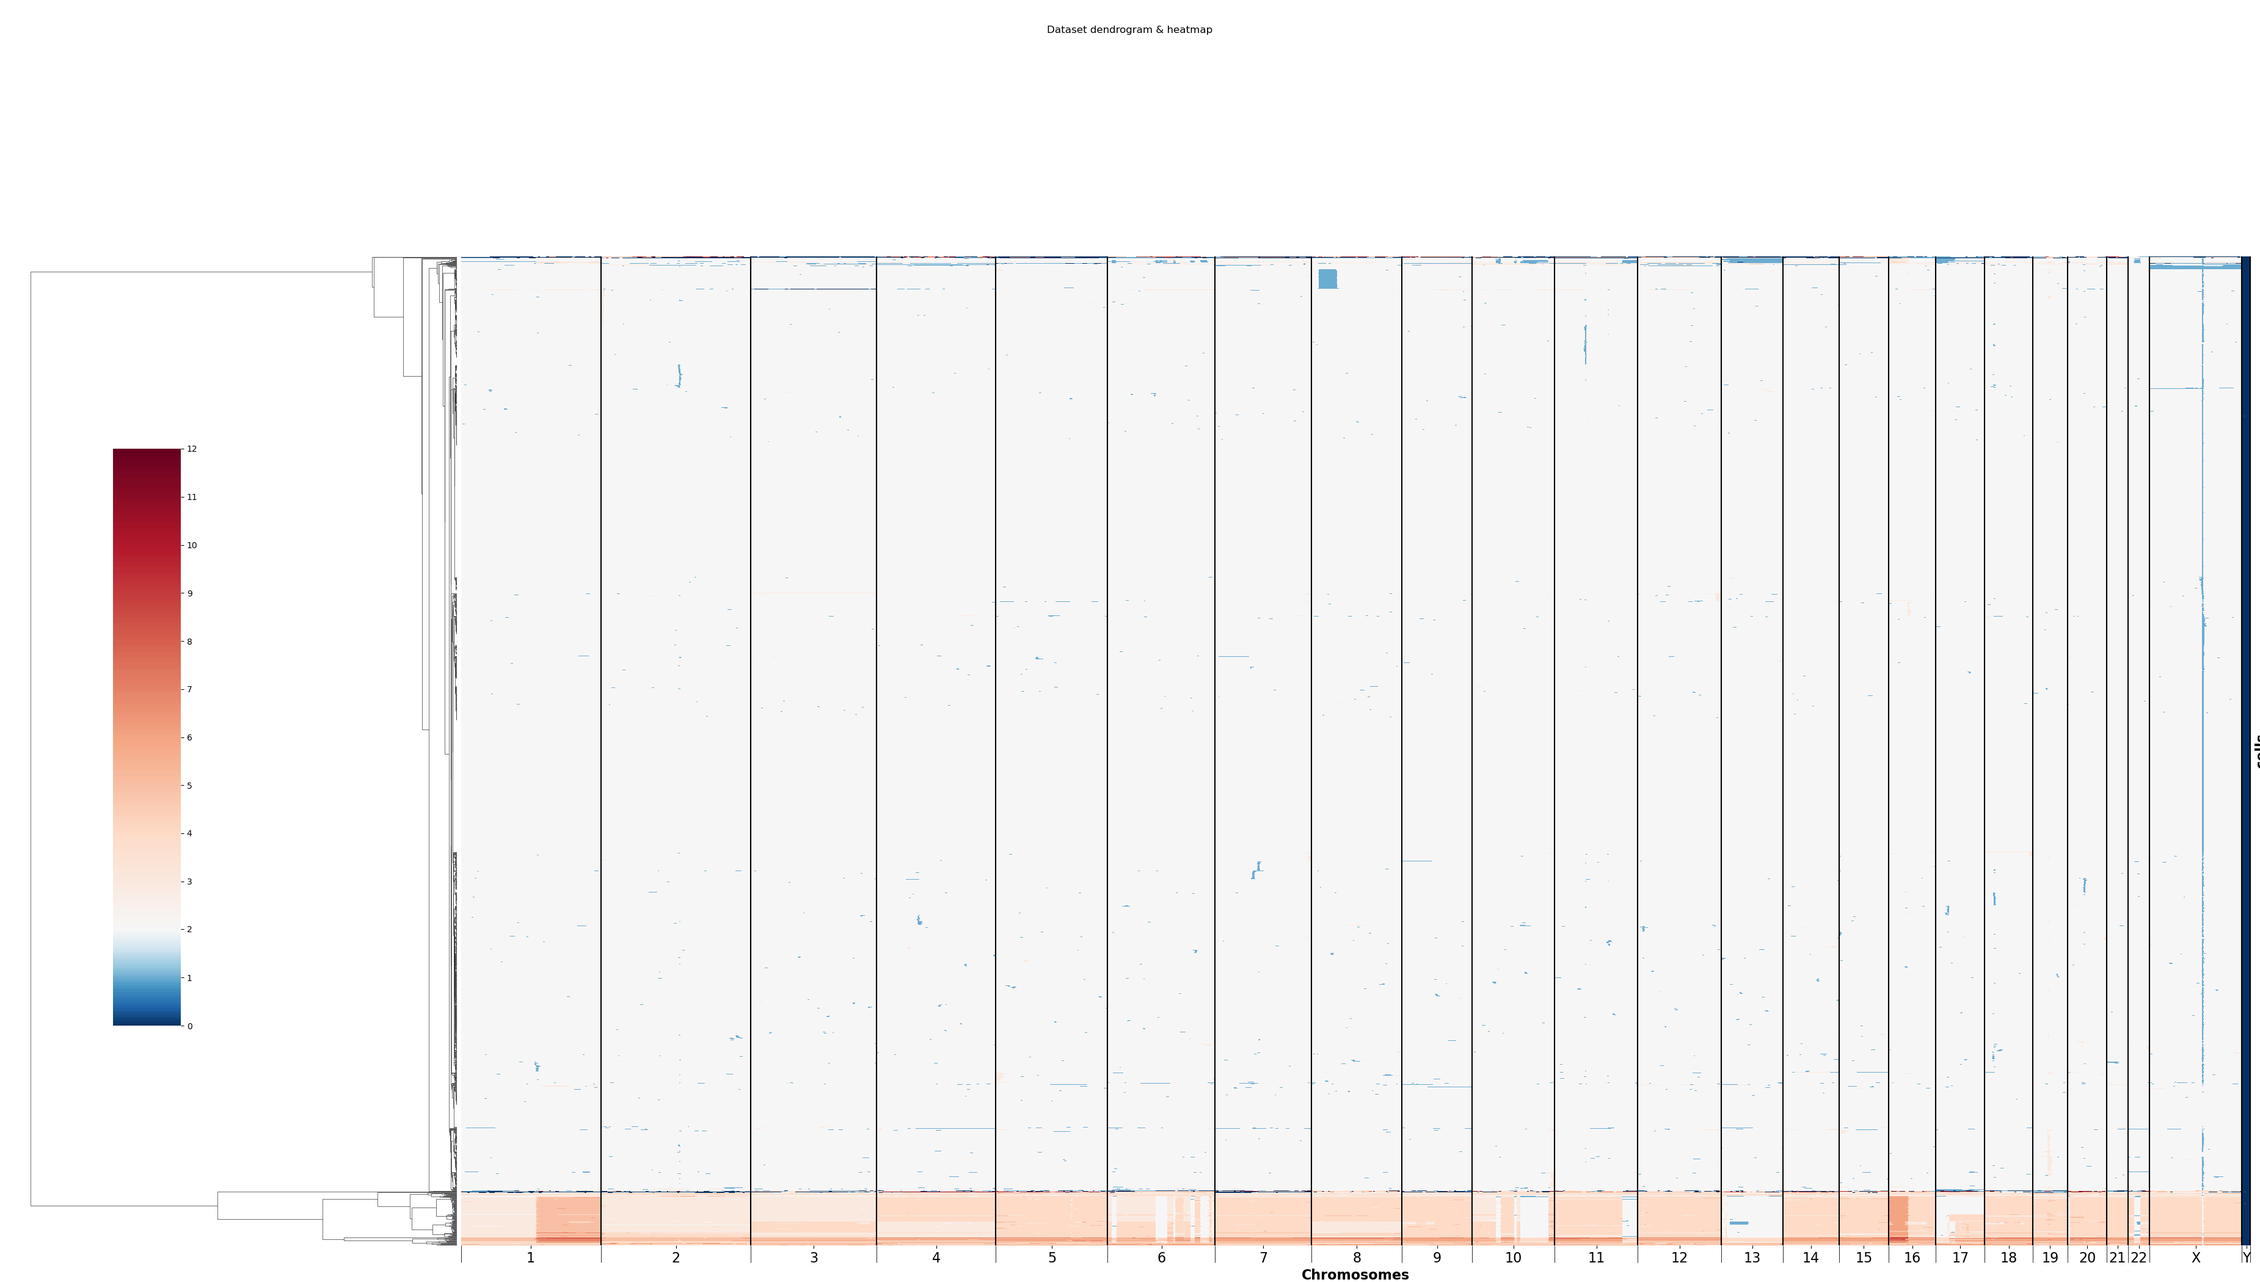
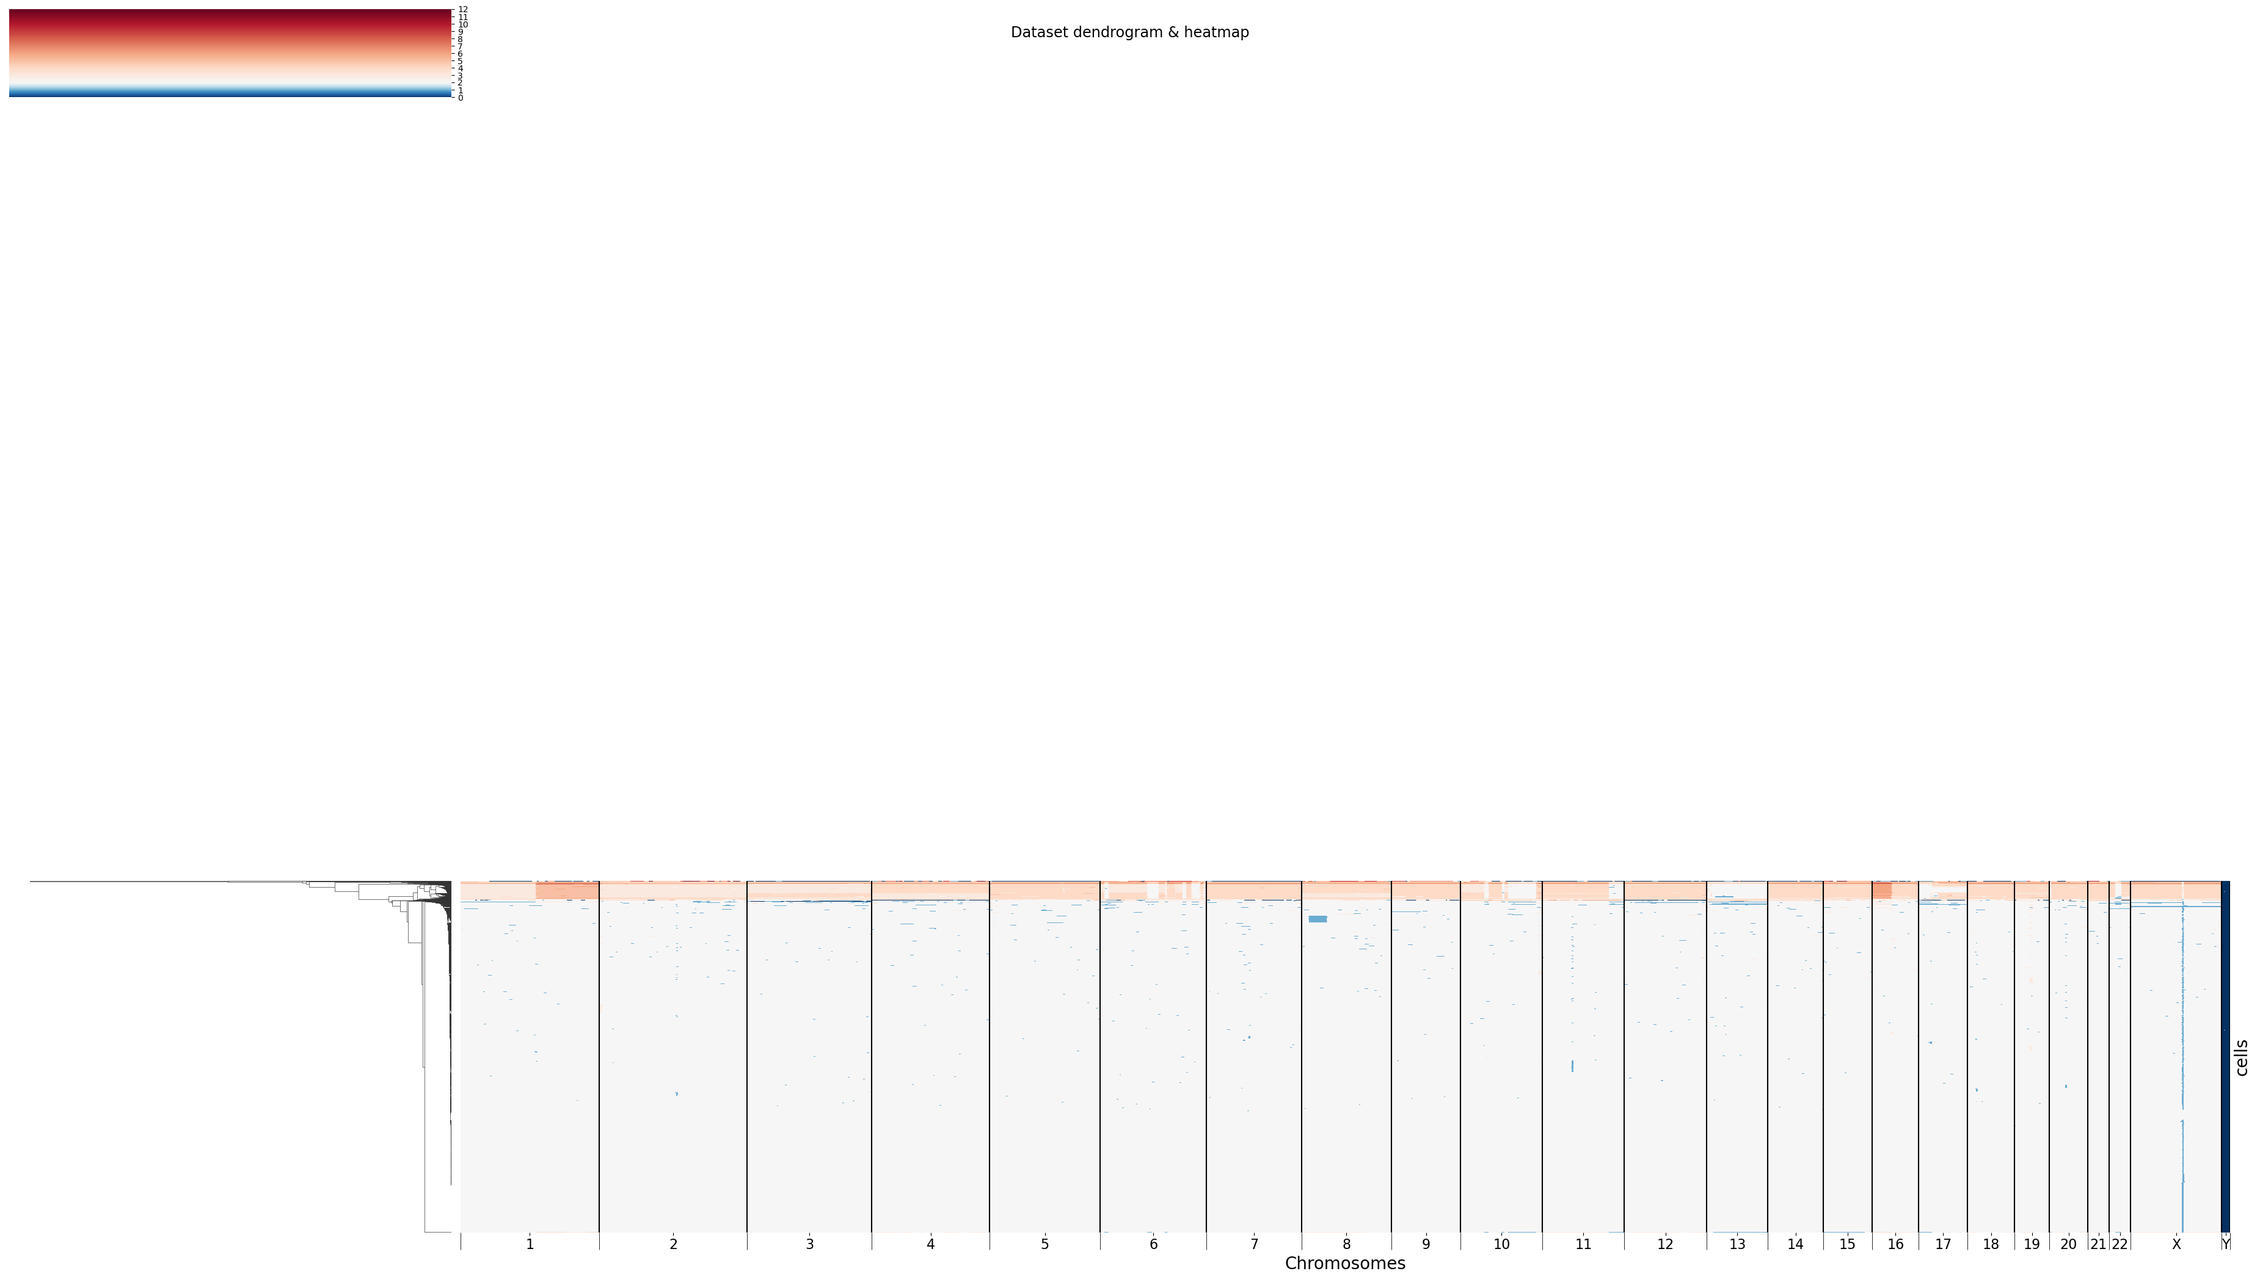
fixes to manage clustering visualization

diff --git a/phylics/drawer.py b/phylics/drawer.py
@@ -36,11 +36,107 @@ import matplotlib.ticker as ticker
 import matplotlib.pyplot as plt
 import matplotlib.colors as colors
 import matplotlib.transforms as transforms
+from matplotlib.patches import Patch
 from typing import Tuple, Union, List, Iterable, Collection, Sequence, Optional
 from .types import CnvData
 from ._compat import Literal
 from . import logging as logg
 from .plotting._utils import make_projection_available, ColorLike, _Dimensions
+
+def clustermap2(data, boundaries, labels:Union[pd.Series, pd.DataFrame]=None,  row_cluster:bool=False, vmin:int = 0, vmax:int = 12, vcenter:int=2, 
+            linkage:Union[np.ndarray, None]=None, outpath=None, legend: bool=False,  title: str=None, 
+                 figsize:Tuple[int, int]=(37, 21)):
+    warnings.filterwarnings("ignore")
+    sns.set(font_scale=2)
+    
+    if figsize == None:
+        figsize = (37, 21)
+    divnorm = colors.TwoSlopeNorm(vmin=vmin, vcenter=vcenter, vmax=vmax)
+    cbar_kws={"ticks":np.arange(vmin,vmax+1,1)}
+
+    cluster_colors = None
+    cluster_lut = {}
+    if labels is not None:
+        if isinstance(labels, pd.Series):
+            color_palette = sns.color_palette("hls", len(np.unique(labels)))
+            cluster_lut = dict(zip(np.unique(labels), color_palette))
+            cluster_colors=pd.Series(labels, index=data.index, name=labels.name).map(cluster_lut)
+        elif isinstance(labels, pd.DataFrame):
+            cluster_colors = pd.DataFrame(columns=labels.columns)
+            for c in labels.columns:
+                color_palette = sns.color_palette("hls", len(np.unique(labels[c])))
+                cluster_lut = dict(zip(np.unique(labels[c]), color_palette))
+                cluster_colors[c] = pd.Series(labels[c], index=data.index, name=c).map(cluster_lut)
+                
+    h = sns.clustermap(data, row_cluster=row_cluster, col_cluster=False, row_linkage=linkage, yticklabels = False,  
+                    row_colors=cluster_colors, cmap='RdBu_r', vmin=vmin, vmax=vmax,norm=divnorm, cbar_kws=cbar_kws, figsize=figsize)   
+    if legend == True: 
+        # Draw the legend bar for the classes                 
+        # label in np.unique(labels):
+        #    h.ax_row_dendrogram.bar(0, 0, color=cluster_lut[label],
+        #                label=label, linewidth=0)
+        #h.ax_row_dendrogram.legend(loc='best', bbox_to_anchor=(0.05, .2, .03, .45), ncol=len(np.unique(labels)), 
+                #title_fontsize='x-large', bbox_transform=plt.gcf().transFigure)
+        #plt.figlegend(title=labels.name, loc='center', bbox_to_anchor=(0.5,0.9))      
+        handles = [Patch(facecolor=cluster_lut[l]) for l in cluster_lut]
+        h.ax_heatmap.legend(handles, cluster_lut, title=labels.name, bbox_to_anchor=(0.5, 0.9), ncol=len(np.unique(labels)), bbox_transform=plt.gcf().transFigure, loc='upper right')
+    
+    h.fig.tight_layout()
+    h.fig.subplots_adjust(right=0.9, left=0.0)
+    h.ax_cbar.set_position((0.95, .2, .03, .4))
+
+    ax = h.ax_heatmap
+
+    chr_limits = []
+    for k,v in boundaries.groupby('CHR', sort=False)['END'].max().items():
+        chr_limits.append(boundaries.index[(boundaries['CHR'] == k) & (boundaries['END'] == v)].tolist()[0])
+    chr_boundaries = np.append(0, chr_limits)
+    chr_list = boundaries['CHR'].unique().tolist()
+    chrN_list = []
+
+    for x in chr_list:
+        x = x[3:] #remove 'chr' for readability
+        chrN_list.append(x)
+
+    #compute the position where chromosome labels will be placed on the plots
+    start = 0
+    pos_list = []
+    for end in chr_limits:
+        pos_list.append((start+end)/2)
+        start = end+1
+
+    #place vertical lines to identify chromosomes
+    for pos in chr_limits:
+        ax.axvline(x=pos, color='black')
+
+    #place chromosome ticks at the right position
+    ax.xaxis.set_major_locator(ticker.FixedLocator((pos_list)))
+    ax.xaxis.set_major_formatter(ticker.FixedFormatter((chrN_list)))
+    ax.tick_params(axis='x', rotation=0, labelsize=16)
+    
+    ax.xaxis.set_minor_locator(ticker.FixedLocator(chr_boundaries))
+    ax.tick_params(axis='x', length=20, which='minor')
+
+    ax.set_xlabel("Chromosomes",)
+    ax.set_ylabel("cells")
+
+    #hm = h.ax_heatmap.get_position()
+    #plt.setp(h.ax_heatmap.xaxis.get_majorticklabels(), fontsize=6)
+    #h.ax_heatmap.set_position([hm.x0, hm.y0, hm.width*0.25, hm.height])
+    #row = h.ax_row_dendrogram.get_position()
+    #h.ax_row_dendrogram.set_position([row.x0, row.y0, row.width*0.25, row.height*0.5])
+
+
+    #plt.gcf().set_size_inches(37, 21)
+    if title is not None:
+        plt.gcf().suptitle(title, fontsize=40)
+
+    if outpath != None:
+        plt.savefig(outpath)
+    else:
+        plt.show()
+    plt.clf()
+    return h
 
 def clustermap(data, boundaries, labels:Union[np.array, None]=None, outpath=None, title: str=None, legend: bool=False, linkage:Union[np.ndarray, None]=None,
                  vmin:int = 0, vmax:int = 12, vcenter:int=2, figsize:Tuple[int, int]=(37, 21), fontsize:int=16, row_cluster:bool=False): 
@@ -329,7 +425,7 @@ def jackstraw(explained_variance_ratio: np.array, mean_expl_var_ratio_perm: np.a
 
 
 _DRAWING_FUNCTIONS_ = {
-    'heatmap' : clustermap,
+    'heatmap' : clustermap2,
     'dist': dist,
     'scatter':scatter,
     'variable_features':highly_variable_features,

diff --git a/phylics/types/sample.py b/phylics/types/sample.py
@@ -130,6 +130,9 @@ class Sample:
 
     def count(self):
         return self.cnv_data.n_obs
+
+    def sort_rows(self, by:Union[list, np.array]):
+        return Sample(self.cnv_data.sort_rows(by), self.name)
     
     def drop_cells(self, cells:list, inplace:bool=False):
         cnv_data = self.cnv_data.drop_obs(select=cells, inplace=inplace)
@@ -254,14 +257,14 @@ class Sample:
     def cluster(self, method:str, embeddings:Optional[Union[str, None]]=None, **kwargs):
         res = cluster(self.cnv_data, method, embeddings, **kwargs)
         self.cnv_data.uns['cluster_model'] = res
-        self.cnv_data.obs['label'] = res.labels_
+        self.cnv_data.obs['cluster'] = res.labels_
         return res
 
     def get_clusterer(self):
         return self.cnv_data.uns['cluster_model']
     
     def get_cluster_labels(self):
-        return self.cnv_data.obs['label']
+        return self.cnv_data.obs['cluster']
 
     #Multi-sample analysis
     #def co_cluster(self, samples:list, method:str, embeddings:Optional[Union[str, None]]=None, **kwargs):
@@ -405,23 +408,24 @@ class Sample:
             logg.error("{} object has no attribute 'umap'".format(self.cnv_data.uns))
 
     def plot_clusters(self, plot:str="scatter", outpath:str=None, figsize:Tuple[int, int]=None, **kwargs):
-        if 'label' in self.cnv_data.obs.columns:
+        if 'cluster' in self.cnv_data.obs.columns:
+            s = self.sort_rows(by="cluster")
             if plot == "scatter":
-                if 'umap' in self.cnv_data.uns:
-                    projection = self.get_umap('X')
+                if 'umap' in s.cnv_data.uns:
+                    projection = s.get_umap('X')
                 else:
-                    projection = umap(self.cnv_data)
+                    projection = umap(s.cnv_data)
                 Drawer.draw('scatter', data=projection, title = 'Cluster projection', x_label='X', y_label='Y', outpath=outpath,  
-                    figsize = figsize, labels=self.cnv_data.obs['label'].values, legend=True, **kwargs)
+                    figsize = figsize, labels=s.cnv_data.obs['cluster'], legend=True, **kwargs)
             elif plot == "heatmap":
-                Drawer.draw('heatmap', data=self.get_cnv_dataframe(), boundaries=self.get_boundaries(),  title = 'Cluster heatmap', outpath=outpath,  
-                    labels=self.cnv_data.obs['label'].values, legend=True, **kwargs)
+                Drawer.draw('heatmap', data=s.get_cnv_dataframe(), boundaries=s.get_boundaries(),  title = 'Cluster heatmap', outpath=outpath,  
+                    labels=s.cnv_data.obs['cluster'], figsize=figsize, legend=False, **kwargs)
         else:
-            logg.error("{} object has no column 'label'".format(self.cnv_data.feat))
+            logg.error("{} object has no column 'cluster'".format(self.cnv_data.feat))
 
     def plot_dendrogram(self, outpath:str=None, clusters:bool=False, figsize:Tuple[int, int]=None, **kwargs):
         if clusters == True: 
-            if 'label' in self.cnv_data.obs.columns:
+            if 'cluster' in self.cnv_data.obs.columns:
                 model =  self.get_clusterer()
                 if hasattr(model, 'children_'):
                     #agglomerative clustering has been computed
@@ -438,15 +442,15 @@ class Sample:
 
                     linkage_matrix = np.column_stack([model.children_, model.distances_,
                                       counts]).astype(float)
-                    Drawer.draw('heatmap', data=self.get_cnv_dataframe(), boundaries=self.get_boundaries(), linkage=linkage_matrix,  title = 'Cluster dendrogram & heatmap', outpath=outpath,  
-                        labels=self.cnv_data.obs['label'].values, legend=True, **kwargs)
+                    Drawer.draw('heatmap', data=self.get_cnv_dataframe(), row_cluster=True, boundaries=self.get_boundaries(), linkage=linkage_matrix,  title = 'Cluster dendrogram & heatmap', outpath=outpath,  
+                        labels=self.cnv_data.obs['cluster'], legend=True, **kwargs)
                 else:
                     logg.error("Cluster model has no attribute 'children'. Consider executing agglomerative clustering.")
             else:
-                logg.error("{} object has no column 'label'".format(self.cnv_data.feat))
+                logg.error("{} object has no column 'cluster'".format(self.cnv_data.feat))
         else:
-            Drawer.draw('heatmap', data=self.get_cnv_dataframe(), boundaries=self.get_boundaries(),  title = 'Dataset dendrogram & heatmap', outpath=outpath,  
-                        legend=True, **kwargs)
+            Drawer.draw('heatmap', data=self.get_cnv_dataframe(), row_cluster=True, boundaries=self.get_boundaries(),  title = 'Dataset dendrogram & heatmap', outpath=outpath,  
+                         **kwargs)
     
 
 

diff --git a/phylics/types/cnvdata.py b/phylics/types/cnvdata.py
@@ -25,6 +25,7 @@ import numpy as np
 import pandas as pd
 from copy import copy
 from typing import Union, List, Tuple, Optional, Mapping, Iterable, Any, Sequence
+from .. import logging as logg
 
 from .views import (
     ArrayView,
@@ -41,8 +42,8 @@ __all__ = ["CnvData"]
 
 class CnvData:
     def __init__(self, X:Union[np.ndarray, pd.DataFrame, "CnvData"], 
-            obs_names:Optional[Union[Sequence[Union['str','int']], str]] = 'auto', 
-            feat_names:Optional[Union[Sequence[Union['str','int']], str]] = 'auto', 
+            obs_names:Optional[Union[Sequence[Union['str','int']], np.ndarray, str]] = 'auto', 
+            feat_names:Optional[Union[Sequence[Union['str','int']], np.ndarray, str]] = 'auto', 
             obs:Optional[Union[pd.DataFrame, Mapping[str, Iterable[Any]]]]=None, 
             feat:Optional[Union[pd.DataFrame, Mapping[str, Iterable[Any]]]]=None, 
             uns:Optional[Mapping[str, Any]]=None, raw:Optional[Mapping[str, Any]]=None, 
@@ -76,10 +77,10 @@ class CnvData:
                         raise ValueError("obs_names = 'obs_names' requires obs of type pd.DataFrame or Mapping") 
                 else:
                     raise ValueError("Illegal argument for obs_names ({})".format(obs_names))               
-            elif isinstance(obs_names, cabc.Sequence):
+            elif isinstance(obs_names, (cabc.Sequence, np.ndarray)):
                 self.obs_names = obs_names
             else:
-                raise ValueError("obs_names must be of type Sequence or string")
+                raise ValueError("obs_names must be of type Sequence, np.ndarray or string. Current type: " + str(type(obs_names)))
             
             if isinstance(feat_names, str):
                 if feat_names == 'auto':
@@ -101,14 +102,14 @@ class CnvData:
                         raise ValueError("feat_names = 'obs_names' requires obs of type pd.DataFrame or Mapping") 
                 else:
                     raise ValueError("Illegal argument for feat_names ({})".format(feat_names))               
-            elif isinstance(feat_names, cabc.Sequence):
+            elif isinstance(feat_names, (cabc.Sequence, np.ndarray)):
                 self.feat_names = feat_names
             else:
-                raise ValueError("feat_names must be of type Sequence or string")
+                raise ValueError("feat_names must be of type Sequence, np.ndarray or string")
             
 
             if len(self.obs_names) != X.shape[0] or len(self.feat_names) != X.shape[1]:
-                raise ValueError("X: expected shape ({} {}) but got ({})".format(len(self.obs_names), len(self.feat_names), X.shape))
+                raise ValueError("X: expected shape ({} {}) but got {}".format(len(self.obs_names), len(self.feat_names), X.shape))
 
             if isinstance(X, pd.DataFrame):
                 X_arr = X.to_numpy()
@@ -137,7 +138,7 @@ class CnvData:
                 raise ValueError("feat must be one of (pd.DataFrame, Mapping[str, Iterable[Any]])")
 
             if len(self.obs) != X.shape[0] or len(self.feat) != X.shape[1]:
-                raise ValueError("X: expected shape ({} {}) but got ({})".format(len(self.obs), len(self.feat), X.shape))
+                raise ValueError("X: expected shape ({} {}) but got {}".format(len(self.obs), len(self.feat), X.shape))
 
             self.n_obs = len(self.obs_names)
             self.n_feat = len(self.feat_names)
@@ -298,3 +299,27 @@ class CnvData:
                 uns=self.uns.copy() if self.uns is not None else None,
                 raw=self.raw.copy() if self.raw is not None else None,
             )
+
+    def sort_rows(self, by:Union[list, np.array]):
+        df = self.to_df()
+        obs = self.obs
+        if isinstance(by, str):
+            if by in obs.columns:
+                df[by] = obs[by]
+            else:
+                raise ValueError("Key error: " + str(by))
+        elif isinstance(by, str):
+            if by.all() in obs.columns:
+                for l in by:
+                    df[l] = obs[l]
+            else:
+                for l in by:
+                    if l not in obs.columns:
+                        raise ValueError("Key error: " + str(by))
+        df = df.sort_values(by=by)
+        df = df.drop(by, axis=1)
+        obs = obs.reindex(df.index)
+        return CnvData(X=df, obs_names = df.index.values, feat_names= 'col_names', obs=obs, feat=self.feat, uns = self.uns)
+
+                
+

diff --git a/phylics/types/multisample.py b/phylics/types/multisample.py
@@ -73,9 +73,8 @@ class MultiSample(Sample):
 
 
     def plot_dendrogram(self, outpath:str=None, clusters:bool=False, figsize:Tuple[int, int]=None, **kwargs):
-        #TODO manage multi-layer labels
         if clusters == True: 
-            if 'label' in self.cnv_data.obs.columns:
+            if 'cluster' in self.cnv_data.obs.columns:
                 model =  self.get_clusterer()
                 if hasattr(model, 'children_'):
                     #agglomerative clustering has been computed
@@ -92,12 +91,15 @@ class MultiSample(Sample):
 
                     linkage_matrix = np.column_stack([model.children_, model.distances_,
                                       counts]).astype(float)
-                    Drawer.draw('heatmap', data=self.get_cnv_dataframe(), boundaries=self.get_boundaries(), linkage=linkage_matrix,  title = 'Multi dataset cluster dendrogram & heatmap', outpath=outpath,  
-                        labels=self.cnv_data.obs[['sample', 'label']], legend=True, **kwargs)
+                    Drawer.draw('heatmap', data=self.get_cnv_dataframe(), row_cluster=True, boundaries=self.get_boundaries(), linkage=linkage_matrix,  title = 'Cluster dendrogram & heatmap', outpath=outpath,  
+                        labels=self.cnv_data.obs[['sample','cluster']], legend=False, **kwargs)
                 else:
                     logg.error("Cluster model has no attribute 'children'. Consider executing agglomerative clustering.")
             else:
-                logg.error("{} object has no column 'label'".format(self.cnv_data.feat))
+                logg.error("{} object has no column 'cluster'".format(self.cnv_data.feat))
         else:
-            Drawer.draw('heatmap', data=self.get_cnv_dataframe(), boundaries=self.get_boundaries(), row_cluster=True,  title = 'Multi dataset dendrogram & heatmap',  outpath=outpath,  
-                        labels=self.cnv_data.obs['sample'].values, legend=True, **kwargs)
+            Drawer.draw('heatmap', data=self.get_cnv_dataframe(), row_cluster=True, boundaries=self.get_boundaries(),  title = 'Dataset dendrogram & heatmap', outpath=outpath,  
+                         **kwargs)
+    
+
+

diff --git a/phylics/utils.py b/phylics/utils.py
@@ -63,3 +63,5 @@ def partition(set_):
 
 
 
+
+
